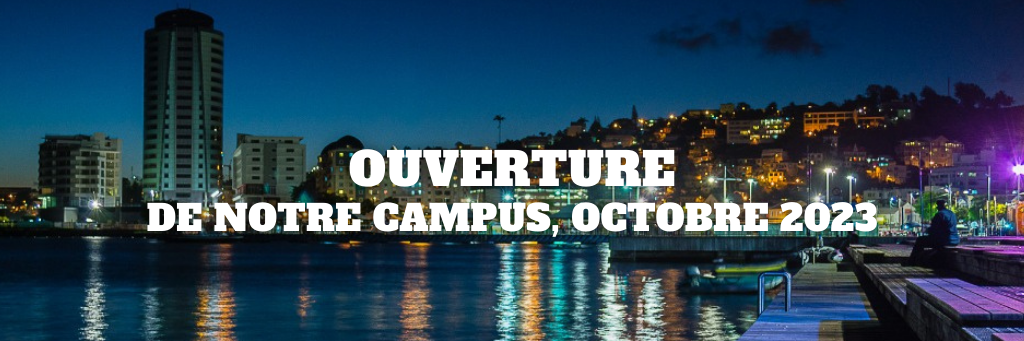
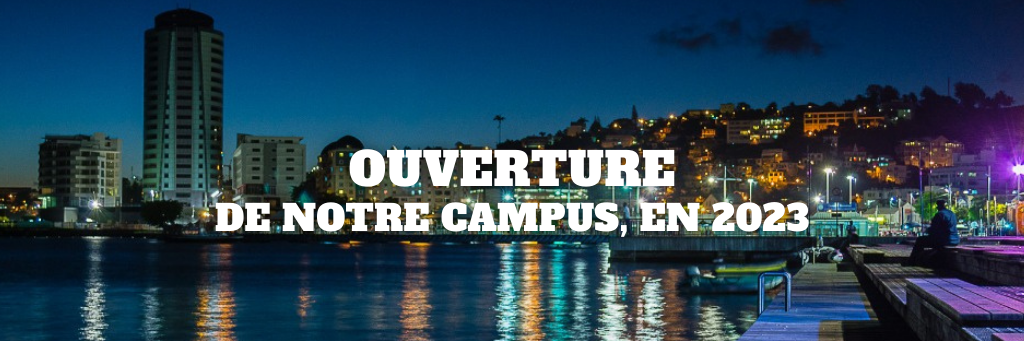
Modification des information dans les formation, correction du bouton scroll page entreprise avec ajout de react-scroll et avant ajout des liens contact vers mail pro audacia

Changed region(s): [[0.125, 0.5865, 0.875, 0.7038]]

diff --git a/src/components/formations/Formation.js b/src/components/formations/Formation.js
@@ -25,7 +25,7 @@ const BlogData = {
         icon3: ['Niveau de sortie de la formation', 'niveau 5'],
         icon4: ['Durée de la formation', '840heures'],
         icon5: ['Coût de la Formation', '7 900 euros'],
-        icon6: ['Prochaines sessions', 'Octobre 2023'],
+        icon6: ['Prochaines sessions', ' 2023'],
 
         icon7: [
           'Accessibilité handicap',
@@ -55,7 +55,7 @@ const BlogData = {
         icon3: null,
         icon4: ['Durée de la formation', '70 heures'],
         icon5: ['Coût de la Formation', '3 150 euros'],
-        icon6: ['Prochaines sessions', 'Octobre 2023'],
+        icon6: ['Prochaines sessions', ' 2023'],
         icon7: [
           'Accessibilité handicap',
           'Notre site répond aux conditions d’accessibilité',
@@ -66,7 +66,8 @@ const BlogData = {
   directeurdetablissementecosociale: {
     key: 'directeurdetablissementecosociale',
 
-    title: 'Directeur d’établissement de l’Economie Sociale',
+    title:
+      'Bachelor Responsable d’établissement de l’Economie Sociale et Solidaire',
     subtitle: 'Titre professionnel niveau 6',
 
     name: 'Formateur',
@@ -83,7 +84,7 @@ const BlogData = {
         icon3: ['Niveau de sortie de la formation', 'niveau 6'],
         icon4: ['Durée de la formation', '800 heures'],
         icon5: ['Coût de la Formation', '9 900 euros'],
-        icon6: ['Prochaines sessions', 'Octobre 2023'],
+        icon6: ['Prochaines sessions', ' 2023'],
 
         icon7: [
           'Accessibilité handicap',
@@ -96,7 +97,7 @@ const BlogData = {
     key: 'International',
 
     title: 'Mobilité Internationale',
-    subtitle: 'Développez vos compétences grâce à Erasmus Pro',
+    subtitle: 'Développez vos compétences grâce à Erasmus',
 
     name: 'Formateur',
     time: '105 heures',
@@ -112,7 +113,7 @@ const BlogData = {
         icon3: null,
         icon4: ['Durée de la formation', '6 mois'],
         icon5: ['Coût de la Formation', 'Prise en charge ERASMUS'],
-        icon6: ['Prochaines sessions', 'Fin 2023'],
+        icon6: ['Prochaines sessions', ' 2023'],
 
         icon7: [
           'Accessibilité handicap',
@@ -141,7 +142,7 @@ const BlogData = {
         icon3: ['Niveau de sortie de la formation', 'niveau 6'],
         icon4: ['Durée de la formation', '805 heures'],
         icon5: ['Coût de la Formation', '8 500 euros'],
-        icon6: ['Prochaines sessions', 'Octobre 2023'],
+        icon6: ['Prochaines sessions', ' 2023'],
 
         icon7: [
           'Accessibilité handicap',
@@ -170,7 +171,7 @@ const BlogData = {
         icon3: null,
         icon4: ['Durée de la formation', '21 heures'],
         icon5: ['Coût de la Formation', '2 450 euros'],
-        icon6: ['Prochaines sessions', 'Octobre 2023'],
+        icon6: ['Prochaines sessions', ' 2023'],
 
         icon7: [
           'Accessibilité handicap',
@@ -199,7 +200,7 @@ const BlogData = {
         icon3: null,
         icon4: ['Durée de la formation', '105 heures'],
         icon5: ['Coût de la Formation', '3150 euros'],
-        icon6: ['Prochaines sessions', 'Octobre 2023'],
+        icon6: ['Prochaines sessions', ' 2023'],
 
         icon7: [
           'Accessibilité handicap',
@@ -228,7 +229,7 @@ const BlogData = {
         icon3: null,
         icon4: ['Durée de la formation', '105 heures'],
         icon5: ['Coût de la Formation', '3950 euros'],
-        icon6: ['Prochaines sessions', 'Octobre 2023'],
+        icon6: ['Prochaines sessions', ' 2023'],
 
         icon7: [
           'Accessibilité handicap',
@@ -237,27 +238,27 @@ const BlogData = {
       },
     },
   },
-  BachelorREESS: {
-    key: 'BachelorREESS',
+  Applicationdudroitsocialindividuel: {
+    key: 'Applicationdudroitsocialindividuel',
 
-    title: 'Bachelor REESS',
+    title: 'Application du droit social individuel',
     subtitle: 'Formation certifiante',
 
     name: 'Formateur',
-    time: '600 heures',
+    time: '42 heures',
     description: {
       text: [
-        "Assurer la gestion et la direction d'association, de coopérative, de mutuelle, de fondation ou de toute structure inscrivant son action dans le cadre de l'intérêt général et de l'utilité sociale Assurer le management des ressources humaines, mettre en œuvre le projet d'établissement et tout projet d'activité, gérer les moyens économiques, financiers et logistiques. et contribuer à l'évolution des choix stratégiques et d'organisation.",
-        'demandeurs d’emploi, salariés, professionnel en reconversion.',
-        'Bac + 2 et /ou expérience professionnelle',
+        "• Disposer d'une méthode de recherche en droit du travail.\n• Choisir le contrat de travail adapté et gérer son exécution.\n• Appliquer et sécuriser les modes de rupture de contrat.\n• Limiter le risque prud'homal.",
+        'Salariés, demandeurs d’emploi',
+        'salariés sans qualification',
       ],
       icon: {
-        icon1: ['Type de formation', 'diplomante / certifiante RNCP 34305'],
+        icon1: ['Type de formation', 'Courte'],
         icon2: ['Filière', 'gestion d’entreprise'],
         icon3: null,
-        icon4: ['Durée de la formation', '600 heures'],
-        icon5: ['Coût de la Formation', '6900 euros'],
-        icon6: ['Prochaines sessions', 'Octobre 2023'],
+        icon4: ['Durée de la formation', '42 heures'],
+        icon5: ['Coût de la Formation', ''],
+        icon6: ['Prochaines sessions', ' 2023'],
 
         icon7: [
           'Accessibilité handicap',
@@ -283,11 +284,9 @@ function Formation() {
   //  }
   //}, [formationId])
 
-  console.log(BlogData[formationId].description);
-
   return (
     <React.Fragment>
-      <FormationNav isDark={true} />
+      <FormationNav isDark={true} isFormationId={BlogData[formationId].key} />
       <Section
         title={BlogData[formationId].title}
         subtitle={BlogData[formationId].subtitle}

diff --git a/src/components/Blog.js b/src/components/Blog.js
@@ -10,6 +10,8 @@ import img4 from '../assets/images/blog/international.jpg';
 import img5 from '../assets/images/blog/managercentredeprofit.jpg';
 import img6 from '../assets/images/blog/financementeuro.jpg';
 import img7 from '../assets/images/blog/toeic.jpg';
+import img8 from '../assets/images/blog/socleconnaissance.jpg';
+import img9 from '../assets/images/blog/applicationdroitsocialindiv.png';
 
 // BlogCard
 
@@ -88,7 +90,7 @@ const BlogData = [
     key: 'directeurdetablissementecosociale',
     imgsrc1: img3,
     title:
-      "Devenez Responsable de structure de l'Economie Sociale er Solidaire ",
+      "Bachelor Responsable D'établissement de l'économie Sociale et Solidaire ",
     subtitle: 'Titre professionnel niveau 6',
     imgsrc2: img7,
     name: 'Formateur',
@@ -98,7 +100,7 @@ const BlogData = [
     key: 'International',
     imgsrc1: img4,
     title: 'Approfondissez vos compétences professionnelles grâce à Erasmus',
-    subtitle: 'Développez vos compétences grâce à Erasmus Pro',
+    subtitle: 'Développez vos compétences grâce à Erasmus',
     imgsrc2: img7,
     name: 'Formateur',
     time: '1 année',
@@ -133,7 +135,7 @@ const BlogData = [
   },
   {
     key: 'CleA',
-    imgsrc1: img7,
+    imgsrc1: img8,
     title: 'Socle de Connaissances & Compétences Clés',
     subtitle: 'Accélérez votre retour à l’emploi ou évoluez en entreprise',
     imgsrc2: img7,
@@ -141,14 +143,13 @@ const BlogData = [
     time: '105 heures',
   },
   {
-    key: 'BachelorREESS',
-    imgsrc1: img7,
-    title:
-      'Bachelor Responsable d’établissement de l’Economie Sociale et Solidaire',
-    subtitle: 'Formation certifiante',
+    key: 'Applicationdudroitsocialindividuel',
+    imgsrc1: img9,
+    title: 'Application du droit social individuel',
+    subtitle: "Disposer d'une méthode de recherche en droit du travail",
     imgsrc2: img5,
     name: 'Formateur',
-    time: '600 heures',
+    time: '42 heures',
   },
 ];
 

diff --git a/src/components/Contact.js b/src/components/Contact.js
@@ -29,17 +29,17 @@ const ContactData = [
   {
     title: 'Addresse',
     iconClass: 'mdi mdi-map-marker text-primary h4',
-    isChildItem: ['35 rue galliéni, 97 200 Fort de France'],
+    isChildItem: ['Martinique'],
   },
   {
     title: 'Telephone',
     iconClass: 'mdi mdi-phone text-primary h4',
-    isChildItem: ['Phone: 0696000000'],
+    isChildItem: ['Phone: +33686356249'],
   },
   {
     title: 'Contact',
     iconClass: 'mdi mdi-email text-primary h4',
-    isChildItem: ['www.audacia.com', 'mbl.audacia@gmail.com'],
+    isChildItem: ['www.audacia.com', 'info.audaciabs@gmail.com'],
   },
   {
     title: "Horaires d'Ouverture",
@@ -87,11 +87,18 @@ const Contact = () => {
           <Row className="mt-5 pt-2 justify-content-center">
             <Col lg={9}>
               <div className="custom-form">
+                {/* Real world form  */}
                 <Form
-                  action="https://formspree.io/f/xwkzloob"
+                  action="https://formspree.io/f/xbjvywzr"
                   method="POST"
                   name="ContactForm"
                 >
+                  {/* --TEST form 
+                <Form
+                  action="https://formspree.io/f/mbjvywyr"
+                  method="POST"
+                  name="ContactForm"
+                > */}
                   <p id="error-msg"></p>
                   <Row>
                     <Col lg={12}>

diff --git a/src/Layout/FormationNav.js b/src/Layout/FormationNav.js
@@ -11,9 +11,10 @@ import Scrollspy from 'react-scrollspy';
 //import images
 import logoLight from '../assets/images/logoAudiaciaLight.png';
 import logoDark from '../assets/images/logoHome3.png';
+import logoREESS from '../assets/images/LogoMFRMOIRANS.png';
 import { Link } from 'react-router-dom';
 
-const NavBar = ({ isDark }) => {
+const NavBar = ({ isDark, isFormationId }) => {
   const [isOpenMenu, setisOpenMenu] = useState(false);
   const [navClass, setnavClass] = useState('');
 
@@ -79,6 +80,27 @@ const NavBar = ({ isDark }) => {
                     height="60"
                   />
                 </>
+              )}
+            </Link>
+            <Link className="navbar-brand logo text-uppercase" to="/">
+              {isFormationId == 'directeurdetablissementecosociale' ? (
+                <>
+                  <img
+                    src={logoREESS}
+                    className="logo-light"
+                    alt=""
+                    height="80"
+                    style={{ paddingTop: '10px' }}
+                  />
+                  <img
+                    src={logoREESS}
+                    className="logo-dark"
+                    alt=""
+                    height="40"
+                  />
+                </>
+              ) : (
+                <></>
               )}
             </Link>
             <NavbarToggler

diff --git a/src/Layout/Footer.js b/src/Layout/Footer.js
@@ -12,7 +12,11 @@ const ListCard = (props) => {
           <ul className="list-unstyled footer-link mt-3 mb-0">
             {props.isChildList.map((Item, key) => (
               <li key={key}>
-                <NavLink href={`/#${Item.link}`}>{Item.subList}</NavLink>
+                {Item.link !== 'entreprise' ? (
+                  <NavLink href={`/#${Item.link}`}>{Item.subList}</NavLink>
+                ) : (
+                  <Link to="/entreprise">{Item.subList}</Link>
+                )}
               </li>
             ))}
           </ul>
@@ -32,6 +36,7 @@ const ListData = [
       { id: 2, subList: 'Nos Formations', link: 'Formations' },
       { id: 3, subList: 'A propos', link: 'Apropos' },
       { id: 4, subList: 'Contact', link: 'contact' },
+      { id: 5, subList: 'Entreprise', link: 'entreprise' },
     ],
   },
 ];
@@ -102,7 +107,7 @@ const Footer = () => {
                     <i className="mdi mdi-twitter text-white-50 float-start"></i>
                     <div className="flex-grow-1">
                       <p className="text-white-50 ps-3">
-                        Ouverture de votre campus début d'année 2023
+                        Ouverture de votre campus en 2023
                       </p>
                     </div>
                   </div>

diff --git a/src/components/entreprise/Section.js b/src/components/entreprise/Section.js
@@ -2,7 +2,7 @@ import React, { useState } from 'react';
 import ModalVideo from 'react-modal-video';
 import Business from '../../assets/images/home/Business.mp4';
 import { Col, Container, Row, Button } from 'reactstrap';
-import { Link } from 'react-router-dom';
+import { Link } from 'react-scroll';
 
 const Section = () => {
   const [isOpen, setOpen] = useState(false);
@@ -28,7 +28,14 @@ const Section = () => {
                 </h1>
 
                 <div className="mt-4">
-                  <Link to="#details" className="btn btn-primary mt-2">
+                  <Link
+                    to="details"
+                    spy={true}
+                    smooth={true}
+                    offset={50}
+                    duration={500}
+                    className="btn btn-primary mt-2"
+                  >
                     En savoir plus
                   </Link>
                 </div>

diff --git a/src/components/formations/Section.js b/src/components/formations/Section.js
@@ -28,7 +28,10 @@ const Section = ({ title, subtitle }) => {
                     </p> */}
                     <h4>Formulaire d'inscription</h4>
                   </div>
-                  <form action="https://formspree.io/f/xrgdpqql" method="POST">
+                  {/* --Real world form  */}
+                  <form action="https://formspree.io/f/mnqkvwgq" method="POST">
+                    {/*--TEST Form
+                   <form action="https://formspree.io/f/xvojrlan" method="POST"> */}
                     <div className="mb-4 position-relative">
                       <label htmlFor="Nom" className="form-label">
                         Nom*

diff --git a/src/pages/Layout6/Section.js b/src/pages/Layout6/Section.js
@@ -171,7 +171,10 @@ const Section = () => {
           Formulaire d'inscription
         </ModalHeader>
         <ModalBody>
-          <form action="https://formspree.io/f/xrgdpqql" method="POST">
+          {/* --Real world form  */}
+          <form action="https://formspree.io/f/mwkdbynd" method="POST">
+            {/* --TEST Form 
+          <form action="https://formspree.io/f/mbjvywyr" method="POST"> */}
             <div className="Modal">
               <div className="mb-4 position-relative">
                 <label htmlFor="Nom" className="form-label">

diff --git a/src/Layout/Navbar.js b/src/Layout/Navbar.js
@@ -132,7 +132,7 @@ const NavBar = ({ isDark }) => {
 
                 <li className="nav-item">
                   <NavLink
-                    href="https://drive.google.com/file/d/1n37gyeAy-G851rp6oPG3pKlJIM_ChPpI/view?usp=sharing"
+                    href="https://drive.google.com/file/d/1rWjt7jDS6dIm9xiVynugW4xvY0Ny-T85/view?usp=sharing"
                     target="_blank"
                   >
                     {' '}

diff --git a/src/components/entreprise/Entreprise.js b/src/components/entreprise/Entreprise.js
@@ -6,6 +6,9 @@ import Description from './Description';
 import Details from './Details';
 
 function Entreprise() {
+  useEffect(() => {
+    window.scrollTo(0, 0);
+  }, []);
   //const [roomDetails, setRoomDetails] = useState(null);
 
   //useEffect(() => {
